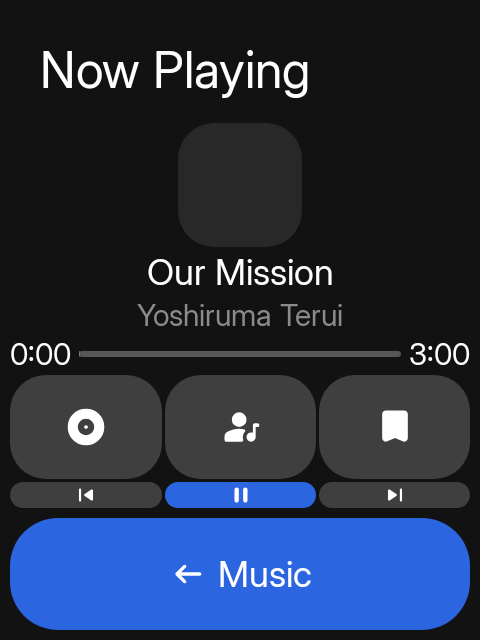
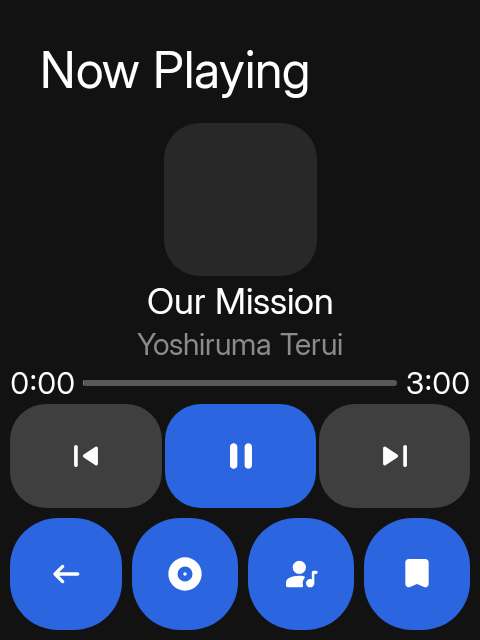
Stop Now Playing flickering and give its controls room
- Action bar: a screen that recomposes rebuilds its actions with fresh
  click handlers but the same look. ActionSlot.update swapped those in
  anyway, and for one frame the label was measured as stale with
  unbounded width, where a weighted label gets zero width: the "Music"
  label vanished every 500 ms while music played. Same-looking actions
  now only update the click target (ActionSlot.latest).
- Seek row: tabular digits and an elapsed-label slot sized for the
  track's duration, so the bar keeps one width and its fill never
  appears to slip back as the time counts up.
- Layout: Previous / Play-Pause / Next are the one row of full-size
  tiles; back, Album, Artist and Save move to a four-button action bar;
  the album art fills the remaining height as a square.

Part of #18.

diff --git a/app/src/main/java/hrln/interactive/sidekit/apps/music/MusicScreens.kt b/app/src/main/java/hrln/interactive/sidekit/apps/music/MusicScreens.kt
@@ -9,6 +9,7 @@ import androidx.compose.foundation.focusable
 import androidx.compose.foundation.gestures.detectHorizontalDragGestures
 import androidx.compose.foundation.layout.Arrangement
 import androidx.compose.foundation.layout.Box
+import androidx.compose.foundation.layout.BoxWithConstraints
 import androidx.compose.foundation.layout.Column
 import androidx.compose.foundation.layout.Row
 import androidx.compose.foundation.layout.RowScope
@@ -30,6 +31,7 @@ import androidx.compose.runtime.remember
 import androidx.compose.runtime.setValue
 import androidx.compose.ui.Alignment
 import androidx.compose.ui.Modifier
+import androidx.compose.ui.draw.alpha
 import androidx.compose.ui.draw.clip
 import androidx.compose.ui.draw.drawBehind
 import androidx.compose.ui.focus.FocusRequester
@@ -42,6 +44,7 @@ import androidx.compose.ui.input.key.onKeyEvent
 import androidx.compose.ui.input.key.type
 import androidx.compose.ui.input.pointer.pointerInput
 import androidx.compose.ui.semantics.Role
+import androidx.compose.ui.semantics.clearAndSetSemantics
 import androidx.compose.ui.semantics.contentDescription
 import androidx.compose.ui.semantics.role
 import androidx.compose.ui.semantics.semantics
@@ -190,24 +193,34 @@ fun NowPlayingScreen(
     }
     val position = playback.positionAt(SystemClock.elapsedRealtime() + tick * 0)
     val gap = SidekitTheme.spacing.itemOuterGap
-    SidekitScaffold(
-        title = "Now Playing",
-        actions = backToMusic(onBack),
-        options = listOf(
-            SideAction("shuffle", if (playback.queue.shuffle) "Shuffle: on" else "Shuffle: off", SidekitIcon.Shuffle, onClick = onShuffle),
-            SideAction("repeat", "Repeat: ${playback.queue.repeat.name.lowercase()}", SidekitIcon.Undo, onClick = onRepeat),
-        ),
-    ) { padding ->
+    // Back plus the track's destinations live in the action bar, so the body has room for the art
+    // and one row of full-size playback controls.
+    val actions = remember(onBack, onAlbum, onArtist, onBookmark) {
+        listOf(
+            SideAction.square("back", SidekitIcon.ArrowLeftAlt, "Back to Music", onBack, motion = ActionMotion.Back),
+            SideAction("album", icon = SidekitIcon.Album, contentDescription = "Album", onClick = onAlbum),
+            SideAction("artist", icon = SidekitIcon.Artist, contentDescription = "Artist", onClick = onArtist),
+            SideAction("save", icon = SidekitIcon.Bookmark, contentDescription = "Save", onClick = onBookmark),
+        )
+    }
+    val shuffle = playback.queue.shuffle
+    val repeat = playback.queue.repeat
+    val options = remember(shuffle, repeat, onShuffle, onRepeat) {
+        listOf(
+            SideAction("shuffle", if (shuffle) "Shuffle: on" else "Shuffle: off", SidekitIcon.Shuffle, onClick = onShuffle),
+            SideAction("repeat", "Repeat: ${repeat.name.lowercase()}", SidekitIcon.Undo, onClick = onRepeat),
+        )
+    }
+    val artUri = remember(track?.albumId) { track?.let { albumArtUri(it.albumId) } }
+    SidekitScaffold(title = "Now Playing", actions = actions, options = options) { padding ->
         Column(Modifier.fillMaxSize().padding(padding), horizontalAlignment = Alignment.CenterHorizontally, verticalArrangement = Arrangement.spacedBy(gap)) {
-            AlbumArt(LARGE_ART, track?.let { albumArtUri(it.albumId) }, SidekitTheme.shapes.item, false)
+            // The art takes whatever height the text, seek row and controls leave, as a square.
+            BoxWithConstraints(Modifier.weight(1f).fillMaxWidth(), contentAlignment = Alignment.Center) {
+                AlbumArt(minOf(maxWidth, maxHeight), artUri, SidekitTheme.shapes.item, false)
+            }
             SidekitText(track?.title ?: "Nothing playing", Modifier.fillMaxWidth(), textAlign = TextAlign.Center, maxLines = 2)
             SidekitText(track?.artist.orEmpty(), style = SidekitTheme.typography.label, color = SidekitTheme.colors.surfaceA6, maxLines = 1)
-            MusicSeek(position, playback.durationMs, onSeek)
-            SidekitItemRow {
-                IconTile(SidekitIcon.Album, "Album", onAlbum)
-                IconTile(SidekitIcon.Artist, "Artist", onArtist)
-                IconTile(SidekitIcon.Bookmark, "Save", onBookmark)
-            }
+            MusicSeek(position, playback.durationMs.takeIf { it > 0 } ?: track?.durationMs ?: 0L, onSeek)
             SidekitItemRow {
                 IconTile(SidekitIcon.SkipPrevious, "Previous", onPrevious)
                 IconTile(if (playback.isPlaying) SidekitIcon.Pause else SidekitIcon.PlayArrow, if (playback.isPlaying) "Pause" else "Play", onPlayPause, PlayTileColour.Strong)
@@ -222,8 +235,18 @@ private fun MusicSeek(position: Long, duration: Long, onSeek: (Long) -> Unit) {
     val fraction = if (duration > 0) position / duration.toFloat() else 0f
     val trackColor = SidekitTheme.colors.surfaceA4
     val progressColor = SidekitTheme.colors.light
+    // The bar takes whatever width the two labels leave, so the elapsed label must not change width
+    // as it counts up: otherwise the bar resizes each second and its fill can appear to slip back.
+    // Tabular digits make every digit the same width, and the slot is sized for the longest time
+    // this track can show (its duration's shape, e.g. "00:00" for a 12-minute track).
+    val labelStyle = SidekitTheme.typography.label
+    val timeStyle = remember(labelStyle) { labelStyle.copy(fontFeatureSettings = "tnum") }
+    val widest = remember(duration) { formatDuration(duration).replace(DIGIT, "0") }
     Row(verticalAlignment = Alignment.CenterVertically, horizontalArrangement = Arrangement.spacedBy(8.dp)) {
-        SidekitText(formatDuration(position), style = SidekitTheme.typography.label)
+        Box(contentAlignment = Alignment.CenterEnd) {
+            SidekitText(widest, Modifier.alpha(0f).clearAndSetSemantics {}, style = timeStyle)
+            SidekitText(formatDuration(position), style = timeStyle)
+        }
         Box(Modifier.weight(1f).height(36.dp).pointerInput(duration) {
             detectHorizontalDragGestures { change, _ -> if (duration > 0) onSeek(((change.position.x / size.width).coerceIn(0f, 1f) * duration).toLong()) }
         }.drawBehind {
@@ -231,9 +254,11 @@ private fun MusicSeek(position: Long, duration: Long, onSeek: (Long) -> Unit) {
             drawRoundRect(trackColor, Offset(0f, y), Size(size.width, h), CornerRadius(h / 2))
             drawRoundRect(progressColor, Offset(0f, y), Size(size.width * fraction.coerceIn(0f, 1f), h), CornerRadius(h / 2))
         })
-        SidekitText(formatDuration(duration), style = SidekitTheme.typography.label)
+        SidekitText(formatDuration(duration), style = timeStyle)
     }
 }
+
+private val DIGIT = Regex("\\d")
 
 @Composable
 fun MusicSearchScreen(query: String, results: List<LibraryItem>, onQueryChange: (String) -> Unit, actions: MusicActions, onBack: () -> Unit) {
@@ -252,7 +277,6 @@ fun MusicPermissionScreen(access: Access, onBack: () -> Unit) {
 }
 
 private val SMALL_ART = 44.dp
-private val LARGE_ART = 124.dp
 private enum class PlayTileColour { None, Light, Strong }
 
 @Composable

diff --git a/sidekit/src/main/java/hrln/interactive/sidekit/design/action/ActionBarHost.kt b/sidekit/src/main/java/hrln/interactive/sidekit/design/action/ActionBarHost.kt
@@ -102,8 +102,19 @@ internal class ActionSlot(action: SideAction, present: Boolean) {
     /** Last settled content width, used to measure content while this slot merges away. */
     var contentMaxWidth: Int = 0
 
+    /**
+     * The newest action published for this button, for click handling. Can be newer than [action]:
+     * a screen that recomposes rebuilds its actions with fresh handlers but the same look, and
+     * swapping those into [action] would recompose the button (and, for one frame before
+     * composition catches up, measure its label as stale) for nothing visible.
+     */
+    var latest: SideAction = action
+        private set
+
     fun update(next: SideAction, scope: CoroutineScope) {
+        latest = next
         val old = action
+        if (old.sameLook(next)) return
         action = next
         if (!old.sameContent(next)) {
             previous = old
@@ -414,7 +425,7 @@ private fun SlotSurface(slot: ActionSlot, model: ActionBarModel) {
                     },
                 )
                 model.lastPressed = slot.key
-                slot.action.onClick()
+                slot.latest.onClick()
             },
     )
 }

diff --git a/sidekit/src/main/java/hrln/interactive/sidekit/design/action/SideAction.kt b/sidekit/src/main/java/hrln/interactive/sidekit/design/action/SideAction.kt
@@ -101,6 +101,11 @@ class SideAction(
         label == other.label && icon == other.icon && iconAtEnd == other.iconAtEnd &&
             dense == other.dense && (art == null) == (other.art == null) && artKey == other.artKey
 
+    /** Everything the bar draws or animates is the same; only click handlers (and art lambdas for the same [artKey]) may differ. */
+    internal fun sameLook(other: SideAction): Boolean =
+        sameContent(other) && tone == other.tone && weight == other.weight && square == other.square &&
+            motion == other.motion && contentDescription == other.contentDescription
+
     internal val description: String? get() = contentDescription ?: label
 
     companion object {
